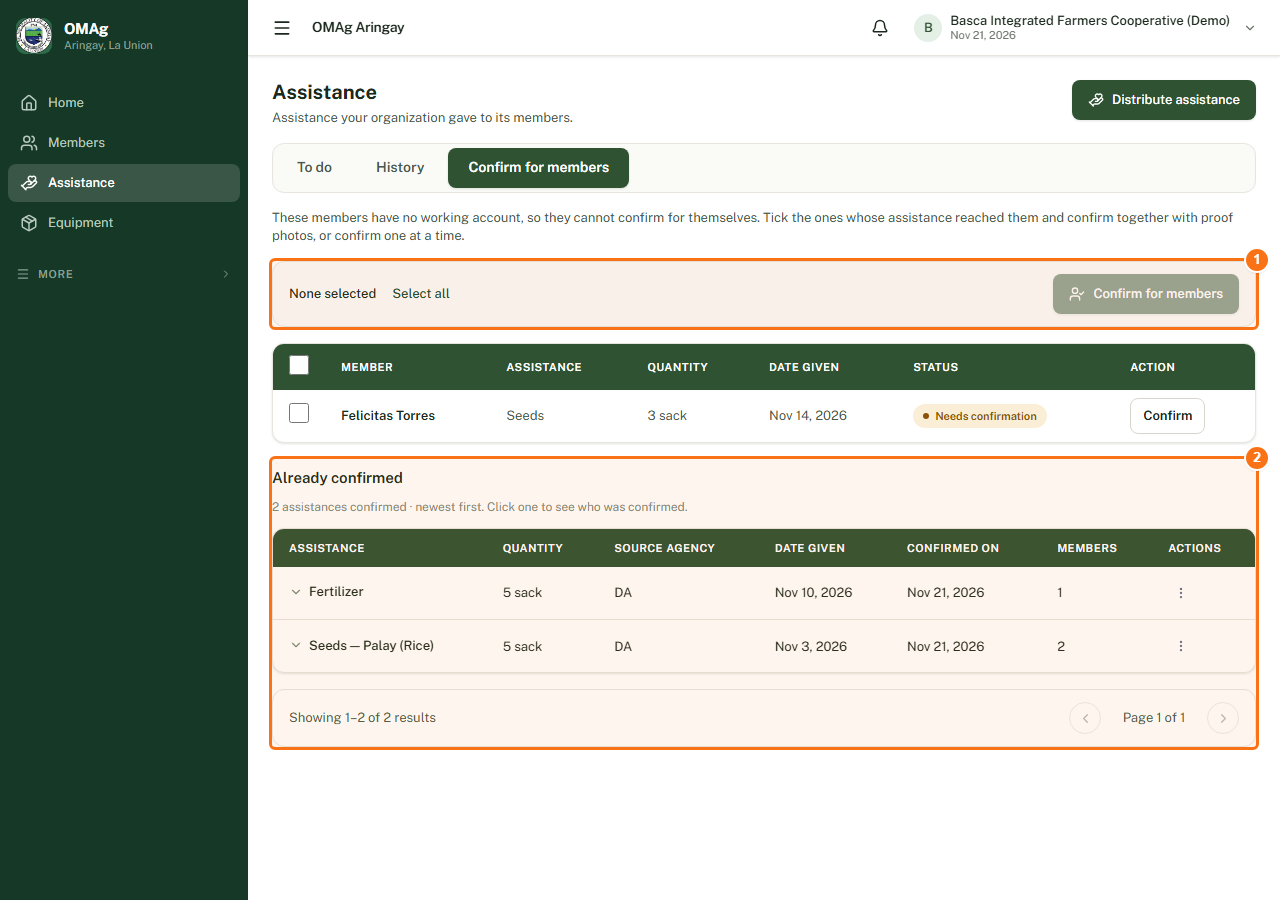
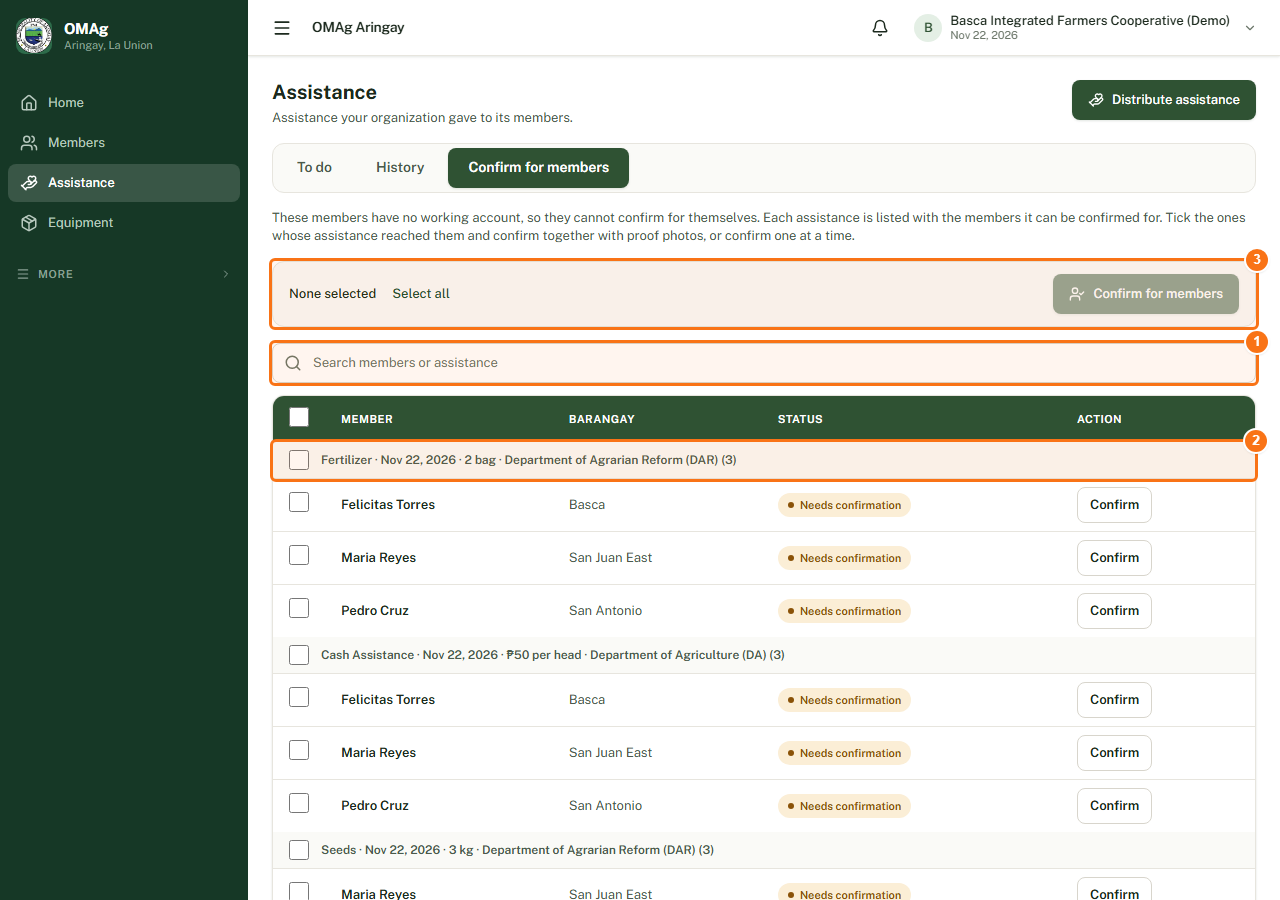
Confirm for members: list assistance by assistance, with a search box

diff --git a/oma-frontend/src/pages/Account/MyOrgAssistancePage.jsx b/oma-frontend/src/pages/Account/MyOrgAssistancePage.jsx
@@ -4,19 +4,18 @@ import { HandHeart } from 'lucide-react'
 import api from '../../api/axiosInstance.js'
 import Button from '../../components/UI/Button.jsx'
 import { useAuth } from '../../context/AuthContext.jsx'
-import { formatDate } from '../../utils/dateFormat.js'
-import { formatAssistanceQuantity } from '../AssistanceManagement/assistanceFieldHelpers.js'
 import ConfirmMembersDialog from '../AssistanceManagement/ConfirmMembersDialog.jsx'
 import DistributeAssistanceModal from '../AssistanceManagement/DistributeAssistanceModal.jsx'
 import { FARMER_DISTRIBUTION_DOMAIN, FISHERFOLK_DISTRIBUTION_DOMAIN } from '../AssistanceManagement/distributionDomains.js'
 import { ConfirmActionBar } from '../AssistanceManagement/OrgConfirmControls.jsx'
 import OrgDistributionHistory from '../AssistanceManagement/OrgDistributionHistory.jsx'
-import { isSelectable } from '../AssistanceManagement/orgConfirmSelection.js'
+import { assistanceGroups, assistanceKey, filterConfirmRecords, groupLabel, isSelectable } from '../AssistanceManagement/orgConfirmSelection.js'
 import useConfirmSelection from '../AssistanceManagement/useConfirmSelection.js'
 import { FARMERS_ORG_DOMAIN, FISHERFOLK_ORG_DOMAIN } from '../Citizen/orgDomainConfig.js'
 import ConfirmedForMembersPanel from '../Organizations/ConfirmedForMembersPanel.jsx'
 import AccountPage from './AccountPage.jsx'
 import ChooseDistributeWindow from './ChooseDistributeWindow.jsx'
+import ListTools from './ListTools.jsx'
 import { listOf } from './loadState.js'
 import { confirmReview, orgAssistanceDomain, orgAssistanceTab, orgDomain } from './myOrganization.js'
 import RecordList from './RecordList.jsx'
@@ -26,8 +25,9 @@ import TabBar from './TabBar.jsx'
 // An organization account's Assistance page (`kind` is 'orgFarm' or 'orgFish'), three tabs:
 //   To do               assistance still waiting (scheduled, awaiting confirmation, being followed up), the existing distribution list
 //   History             assistance received or resolved, the same list
-//   Confirm for members the members without a working account whose assistance waits: tick them and confirm together (with proof
-//                       photos), or one by one; under it, everything the organization already confirmed for its members
+//   Confirm for members the members without a working account whose assistance waits, assistance by assistance (what was given, then
+//                       its members): search them, tick them and confirm together (with proof photos), or one by one; under it,
+//                       everything the organization already confirmed for its members
 // One Distribute assistance button asks first: one member or all members. Every form is the existing window.
 const TABS = [{ value: 'todo', label: 'To do' }, { value: 'history', label: 'History' }, { value: 'confirm', label: 'Confirm for members' }]
 const NO_RECORDS = []
@@ -59,6 +59,11 @@ export default function MyOrgAssistancePage({ kind }) {
     return () => { cancelled = true }
   }, [tab, config.accountlessConfirmablesUrl, confirmVersion])
   const selection = useConfirmSelection(tab === 'confirm' ? confirmables : NO_RECORDS)
+  // The search narrows the members (name, barangay or assistance); what was ticked stays ticked. The rest of the list is one block for each
+  // assistance, headed by its type, date, quantity and agency.
+  const [memberSearch, setMemberSearch] = useState('')
+  const visible = useMemo(() => filterConfirmRecords(confirmables, memberSearch, (r) => r[nameField]), [confirmables, memberSearch, nameField])
+  const sections = useMemo(() => assistanceGroups(visible).map((g) => ({ key: g.key, label: groupLabel(g), match: (r) => assistanceKey(r) === g.key })), [visible])
 
   const reloadAll = useCallback(() => { setHistoryKey((k) => k + 1); setConfirmVersion((v) => v + 1) }, [])
   const switchTab = (next) => navigate(next === 'todo' ? pathname : `${pathname}?tab=${next}`, { replace: true })
@@ -66,9 +71,7 @@ export default function MyOrgAssistancePage({ kind }) {
 
   const confirmColumns = [
     { key: 'member', label: 'Member', phone: 'title', render: (r) => r[nameField] },
-    { key: 'assistance_type', label: 'Assistance' },
-    { key: 'quantity', label: 'Quantity', render: (r) => formatAssistanceQuantity(r.assistance_type, r.quantity) },
-    { key: 'date', label: 'Date given', phone: 'hide', render: (r) => formatDate(r.date_given) },
+    { key: 'barangay', label: 'Barangay', render: (r) => r.farmer_barangay || r.fisherfolk_barangay },
     { key: 'review', label: 'Status', phone: 'badge', render: (r) => { const s = confirmReview(r); return <StatusBadge tone={s.tone}>{s.text}</StatusBadge> } },
   ]
   const selectable = useMemo(() => ({
@@ -76,6 +79,7 @@ export default function MyOrgAssistancePage({ kind }) {
     canSelect: isSelectable,
     onToggle: (row) => selection.toggle(row.id),
     onToggleAll: selection.toggleEvery,
+    onToggleGroup: selection.toggleGroup,
     label: (row) => `Select ${row[nameField]}`,
   }), [selection, nameField])
 
@@ -94,21 +98,25 @@ export default function MyOrgAssistancePage({ kind }) {
       {tab === 'confirm' && (
         <div className="space-y-4">
           <p className="text-[13px] leading-snug text-text-secondary">
-            These members have no working account, so they cannot confirm for themselves. Tick the ones whose assistance reached them and
-            confirm together with proof photos, or confirm one at a time.
+            These members have no working account, so they cannot confirm for themselves. Each assistance is listed with the members it can be
+            confirmed for. Tick the ones whose assistance reached them and confirm together with proof photos, or confirm one at a time.
           </p>
           {confirmState === 'ready' && (
             <ConfirmActionBar selection={selection} records={confirmables} onConfirm={() => setOpen({ kind: 'confirm', records: selection.selectedRecords })} />
           )}
+          {confirmState === 'ready' && confirmables.length > 0 && <ListTools search={memberSearch} onSearch={setMemberSearch} placeholder="Search members or assistance" />}
           <RecordList
             columns={confirmColumns}
-            rows={confirmables}
+            rows={visible}
+            sections={sections}
             state={confirmState}
             onRetry={() => { setConfirmState('loading'); setConfirmVersion((v) => v + 1) }}
             what="the members waiting for a confirmation"
             selectable={selectable}
             actions={(r) => (isSelectable(r) ? [{ label: 'Confirm', onClick: () => setOpen({ kind: 'confirm', records: [r] }) }] : [])}
-            empty={{ title: 'No member is waiting', hint: 'Members without an account show here when their assistance needs confirming.' }}
+            empty={memberSearch.trim()
+              ? { title: 'No member matches', hint: 'Try another word.' }
+              : { title: 'No member is waiting', hint: 'Members without an account show here when their assistance needs confirming.' }}
           />
           <section aria-labelledby="already-confirmed" className="pt-2">
             <h2 id="already-confirmed" className="mb-2 text-[15px] font-semibold text-text-primary">Already confirmed</h2>

diff --git a/oma-frontend/src/pages/Account/RecordList.jsx b/oma-frontend/src/pages/Account/RecordList.jsx
@@ -1,3 +1,4 @@
+import { useEffect, useRef } from 'react'
 import { Link } from 'react-router-dom'
 import { TABLE_HEAD_CELL, TABLE_HEAD_ROW } from '../../components/UI/tableStyles.js'
 import { EmptyNote, LoadFailed, LoadingRows } from './ListStates.jsx'
@@ -13,7 +14,8 @@ import { cellText, groupRows, phoneParts, selectionState } from './recordList.js
 //   empty     { title, hint } shown when there are no rows
 //   actions   optional (row) => [{ label, primary?, to?, onClick? }]: at most two buttons a row, the main one first
 //   selectable optional { selected: Set of ids, onToggle(row), onToggleAll(), label(row), canSelect?(row) }: a tick box on each row
-//             (before the name on a phone, a first column on a computer, with a header box that ticks every row)
+//             (before the name on a phone, a first column on a computer, with a header box that ticks every row). With `onToggleGroup(rows)` a
+//             section heading gets a box too, which ticks every row of that section.
 
 const BUTTON = 'press-scale inline-flex min-h-[44px] items-center justify-center rounded-[var(--radius-sm)] px-4 text-center transition-colors md:min-h-9 md:px-3'
 const BUTTON_TONE = {
@@ -37,9 +39,23 @@ function RowBox({ selectable, row }) {
   return <input type="checkbox" className={BOX} aria-label={selectable.label(row)} checked={selectable.selected.has(row.id)} onChange={() => selectable.onToggle(row)} />
 }
 
-function SectionLabel({ group }) {
+// The box of a section heading: ticked when every row that can be ticked is, dashed when some are; null when none of its rows can be ticked.
+function GroupBox({ selectable, group }) {
+  const ref = useRef(null)
+  const { all, some } = selectionState(group.rows, selectable.selected, selectable.canSelect)
+  useEffect(() => { if (ref.current) ref.current.indeterminate = some && !all }, [some, all])
+  if (group.rows.every((row) => selectable.canSelect && !selectable.canSelect(row))) return null
+  return <input ref={ref} type="checkbox" className={BOX} aria-label={`Select every row of ${group.label}`} checked={all} onChange={() => selectable.onToggleGroup(group.rows)} />
+}
+
+function SectionLabel({ group, selectable }) {
   if (!group.label) return null
-  return <h3 className="px-1 pb-1.5 pt-1 text-[13px] font-semibold text-text-secondary">{group.label} ({group.rows.length})</h3>
+  const box = selectable?.onToggleGroup ? <GroupBox selectable={selectable} group={group} /> : null
+  return (
+    <h3 className="flex items-center gap-2 px-1 pb-1.5 pt-1 text-[13px] font-semibold text-text-secondary">
+      {box}<span>{group.label} ({group.rows.length})</span>
+    </h3>
+  )
 }
 
 export default function RecordList({ columns, rows, sections, state = 'ready', onRetry, what, empty, actions, selectable }) {
@@ -57,7 +73,7 @@ export default function RecordList({ columns, rows, sections, state = 'ready', o
       <div className="space-y-3 md:hidden">
         {groups.map((group) => (
           <section key={group.key}>
-            <SectionLabel group={group} />
+            <SectionLabel group={group} selectable={selectable} />
             <ul className="space-y-2">
               {group.rows.map((row) => {
                 const rowActions = actions ? actions(row) : []
@@ -108,7 +124,10 @@ export default function RecordList({ columns, rows, sections, state = 'ready', o
                 {group.label && (
                   <tr className="border-b border-border bg-surface-2">
                     <th scope="colgroup" colSpan={columns.length + (actions ? 1 : 0) + (selectable ? 1 : 0)} className="px-4 py-2 text-left text-[12px] font-semibold text-text-secondary">
-                      {group.label} ({group.rows.length})
+                      <span className="flex items-center gap-3">
+                        {selectable?.onToggleGroup && <GroupBox selectable={selectable} group={group} />}
+                        <span>{group.label} ({group.rows.length})</span>
+                      </span>
                     </th>
                   </tr>
                 )}

diff --git a/oma-frontend/src/pages/AssistanceManagement/orgConfirmSelection.js b/oma-frontend/src/pages/AssistanceManagement/orgConfirmSelection.js
@@ -1,5 +1,9 @@
 // An organization's "Confirm for Members" list: pick the members whose assistance reached them (one by one, or all at
 // once), send one set of proof photos for the whole pick. Pure helpers, so the picking and the messages can be tested.
+import { formatDate } from '../../utils/dateFormat.js'
+import { matchesSearch } from '../../utils/searchMatch.js'
+import { selectionState } from '../Account/recordList.js'
+import { formatAssistanceQuantity } from './assistanceFieldHelpers.js'
 
 // The organization vouches for these members, so it must show proof: at least this many photos, sent once for everyone.
 export const PROOF_MIN = 2
@@ -42,4 +46,50 @@ export const confirmProblem = (memberCount, photoCount) => {
   if (memberCount < 1) return 'Pick at least one member.'
   if (photoCount < PROOF_MIN) return `Add at least ${PROOF_MIN} photos as proof.`
   return ''
+}
+
+// The list is shown assistance by assistance: what was given (type, date, quantity, agency), then the members it can be confirmed for. The
+// records carry no distribution id, so records that agree on all four belong together. Groups keep the order the server sent them in.
+export const assistanceKey = (r) => JSON.stringify([r.assistance_type || '', r.date_given || '', r.quantity ?? '', Array.isArray(r.source_agencies) ? r.source_agencies : []])
+
+export function assistanceGroups(records) {
+  const groups = []
+  const byKey = new Map()
+  ;(Array.isArray(records) ? records : []).forEach((r) => {
+    const agencies = Array.isArray(r.source_agencies) ? r.source_agencies : []
+    const key = assistanceKey(r)
+    let group = byKey.get(key)
+    if (!group) {
+      group = { key, title: r.assistance_type || 'Assistance', assistance_type: r.assistance_type || '', date_given: r.date_given || '', quantity: r.quantity ?? '', source_agencies: agencies, records: [] }
+      byKey.set(key, group)
+      groups.push(group)
+    }
+    group.records.push(r)
+  })
+  return groups
+}
+
+// The line under an assistance's title: "Nov 20, 2026 · 5 kg · DA · 3 members".
+const detailParts = (group) => [
+  group.date_given ? formatDate(group.date_given) : '',
+  formatAssistanceQuantity(group.assistance_type, group.quantity),
+  group.source_agencies.join(', '),
+]
+export const groupDetails = (group) => [...detailParts(group), `${group.records.length} member${group.records.length === 1 ? '' : 's'}`].filter(Boolean).join(' · ')
+
+// The heading of an assistance's block: its type and what was given ("Seeds · Nov 20, 2026 · 5 kg · DA"); the list adds how many members.
+export const groupLabel = (group) => [group.title, ...detailParts(group)].filter(Boolean).join(' · ')
+
+// The search box of the list: every word typed must be found in the member's name, barangay or the assistance, in any order.
+export const filterConfirmRecords = (records, query, nameOf) => records.filter((r) => matchesSearch(
+  [nameOf(r), r.farmer_barangay, r.fisherfolk_barangay, r.assistance_type, r.date_given].filter(Boolean).join(' '), query,
+))
+
+// A click on that box: everyone pickable in the assistance becomes picked, or (when all already were) unpicked; other assistance is left alone.
+export function toggleGroup(selected, groupRecords) {
+  const ids = selectableIds(groupRecords)
+  const next = new Set(selected)
+  if (selectionState(groupRecords, selected, isSelectable).all) ids.forEach((id) => next.delete(id))
+  else ids.forEach((id) => next.add(id))
+  return next
 }

diff --git a/oma-frontend/src/pages/Manual/manualContent.js b/oma-frontend/src/pages/Manual/manualContent.js
@@ -426,7 +426,7 @@ const ORG_GUIDES = [
     steps: [
       'Open Assistance. To do lists assistance still waiting; History lists what was received or settled, with Print Report.',
       'Distribute assistance asks first: one member or all members. Then fill in the type, the source agency, the quantity and the date, review it and confirm. A future date schedules it.',
-      'Confirm for members lists members without a working account whose assistance waits. Tick them (or Select all), press the confirm button and add at least two proof photos. Already confirmed is a table of the assistance you confirmed, one row each: click a row to see which members were confirmed and their photos, and print or download the report of the whole assistance or of one member. It is final.',
+      'Confirm for members lists members without a working account whose assistance waits, one block for each assistance: its type, date, quantity and agency in the heading, then the members it can be confirmed for. The search box finds a member by name, barangay or assistance. Tick the members (the box in a heading ticks that whole assistance, or use Select all), press the confirm button and add at least two proof photos. Already confirmed is a table of the assistance you confirmed, one row each: click a row to see which members were confirmed and their photos, and print or download the report of the whole assistance or of one member. It is final.',
     ],
   },
   {

diff --git a/oma-frontend/src/pages/AssistanceManagement/useConfirmSelection.js b/oma-frontend/src/pages/AssistanceManagement/useConfirmSelection.js
@@ -1,5 +1,5 @@
 import { useCallback, useMemo, useState } from 'react'
-import { allSelected, keepValid, toggleAll, toggleId } from './orgConfirmSelection.js'
+import { allSelected, keepValid, toggleAll, toggleGroup, toggleId } from './orgConfirmSelection.js'
 
 // The members picked on an organization's "Confirm for Members" list. `records` is the list as loaded; whatever was
 // picked but is no longer on it (confirmed meanwhile) or can no longer be picked drops out by itself.
@@ -8,6 +8,7 @@ export default function useConfirmSelection(records) {
   const selected = useMemo(() => keepValid(picked, records), [picked, records])
   const toggle = useCallback((id) => setPicked((prev) => toggleId(keepValid(prev, records), id)), [records])
   const toggleEvery = useCallback(() => setPicked((prev) => toggleAll(keepValid(prev, records), records)), [records])
+  const toggleGroupPick = useCallback((groupRecords) => setPicked((prev) => toggleGroup(keepValid(prev, records), groupRecords)), [records])
   const clear = useCallback(() => setPicked(new Set()), [])
   return {
     selected,
@@ -16,6 +17,7 @@ export default function useConfirmSelection(records) {
     allPicked: allSelected(selected, records),
     toggle,
     toggleEvery,
+    toggleGroup: toggleGroupPick,
     clear,
   }
 }

diff --git a/oma-frontend/src/pages/Manual/manualScreens.js b/oma-frontend/src/pages/Manual/manualScreens.js
@@ -4025,13 +4025,18 @@ export default {
   "legend": [
    {
     "n": 1,
-    "label": "Confirm the ticked ones",
-    "desc": "How many are ticked, Select all, and the button that confirms them together with at least two proof photos."
+    "label": "Search members",
+    "desc": "Type the name of a member, a barangay or an assistance to narrow the list. What you already ticked stays ticked."
    },
    {
     "n": 2,
-    "label": "Already confirmed",
-    "desc": "A table of what you confirmed, one row for each assistance. Click a row to see who was confirmed and their photos; Print Report and Download Report make the report of the whole assistance or of one member. These are final."
+    "label": "Assistance heading",
+    "desc": "What was given: the type, the date, the quantity and the agency, and how many members are listed under it. The box in the heading ticks every member of that assistance."
+   },
+   {
+    "n": 3,
+    "label": "Confirm the ticked ones",
+    "desc": "How many are ticked, Select all, and the button that confirms them together with at least two proof photos."
    }
   ]
  },
